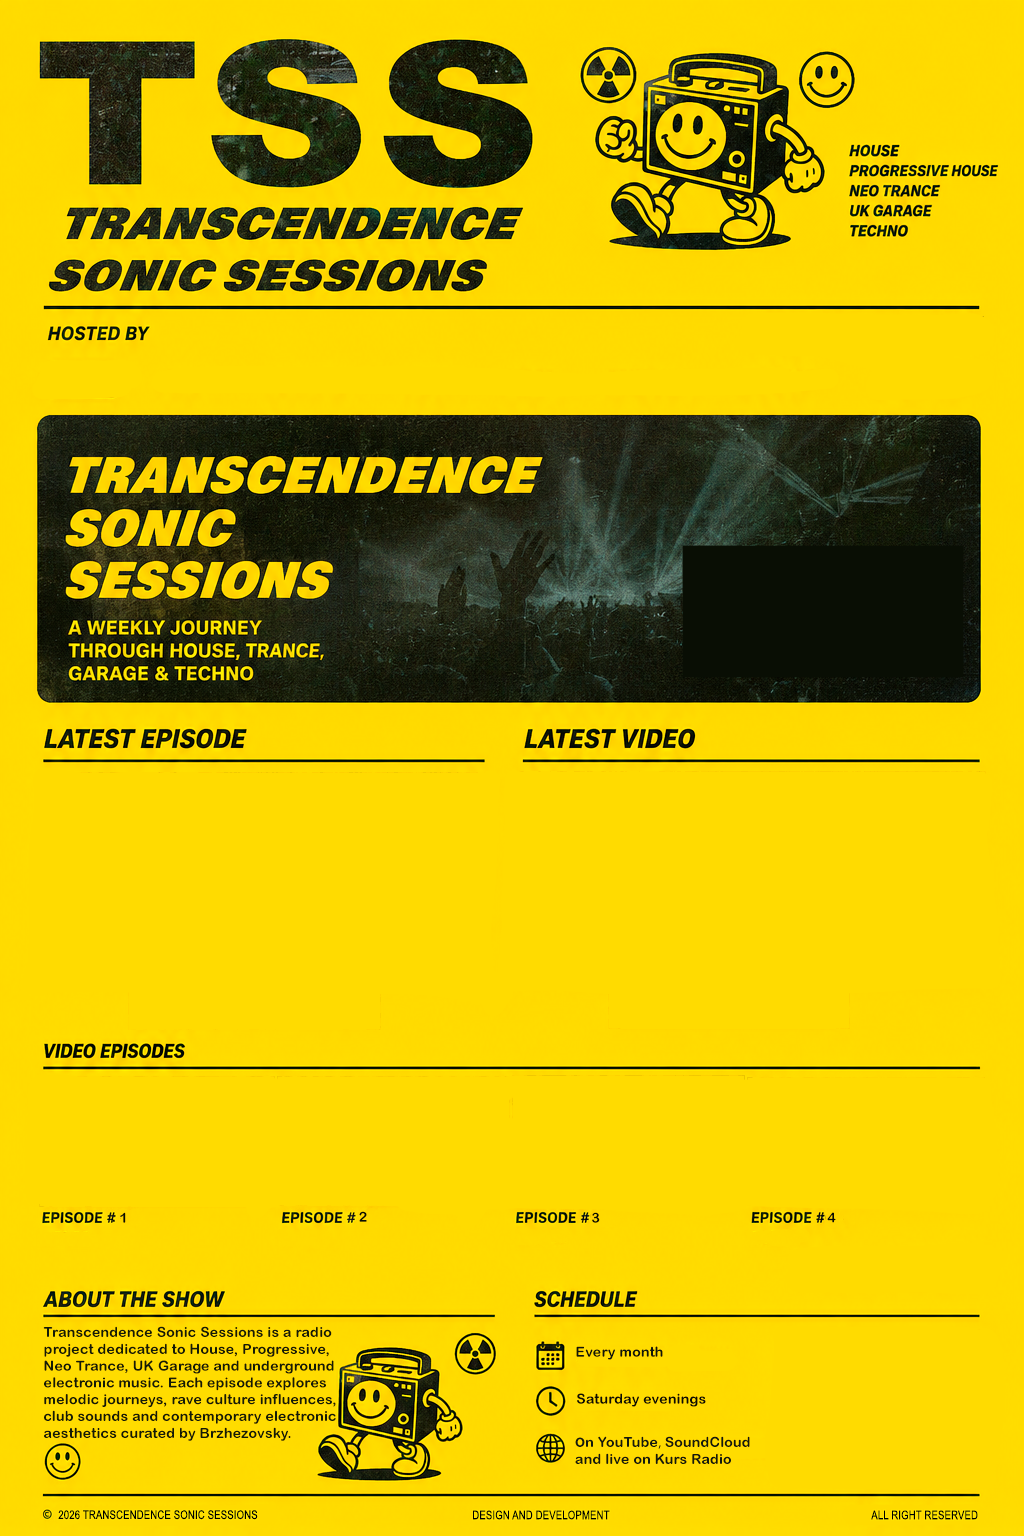
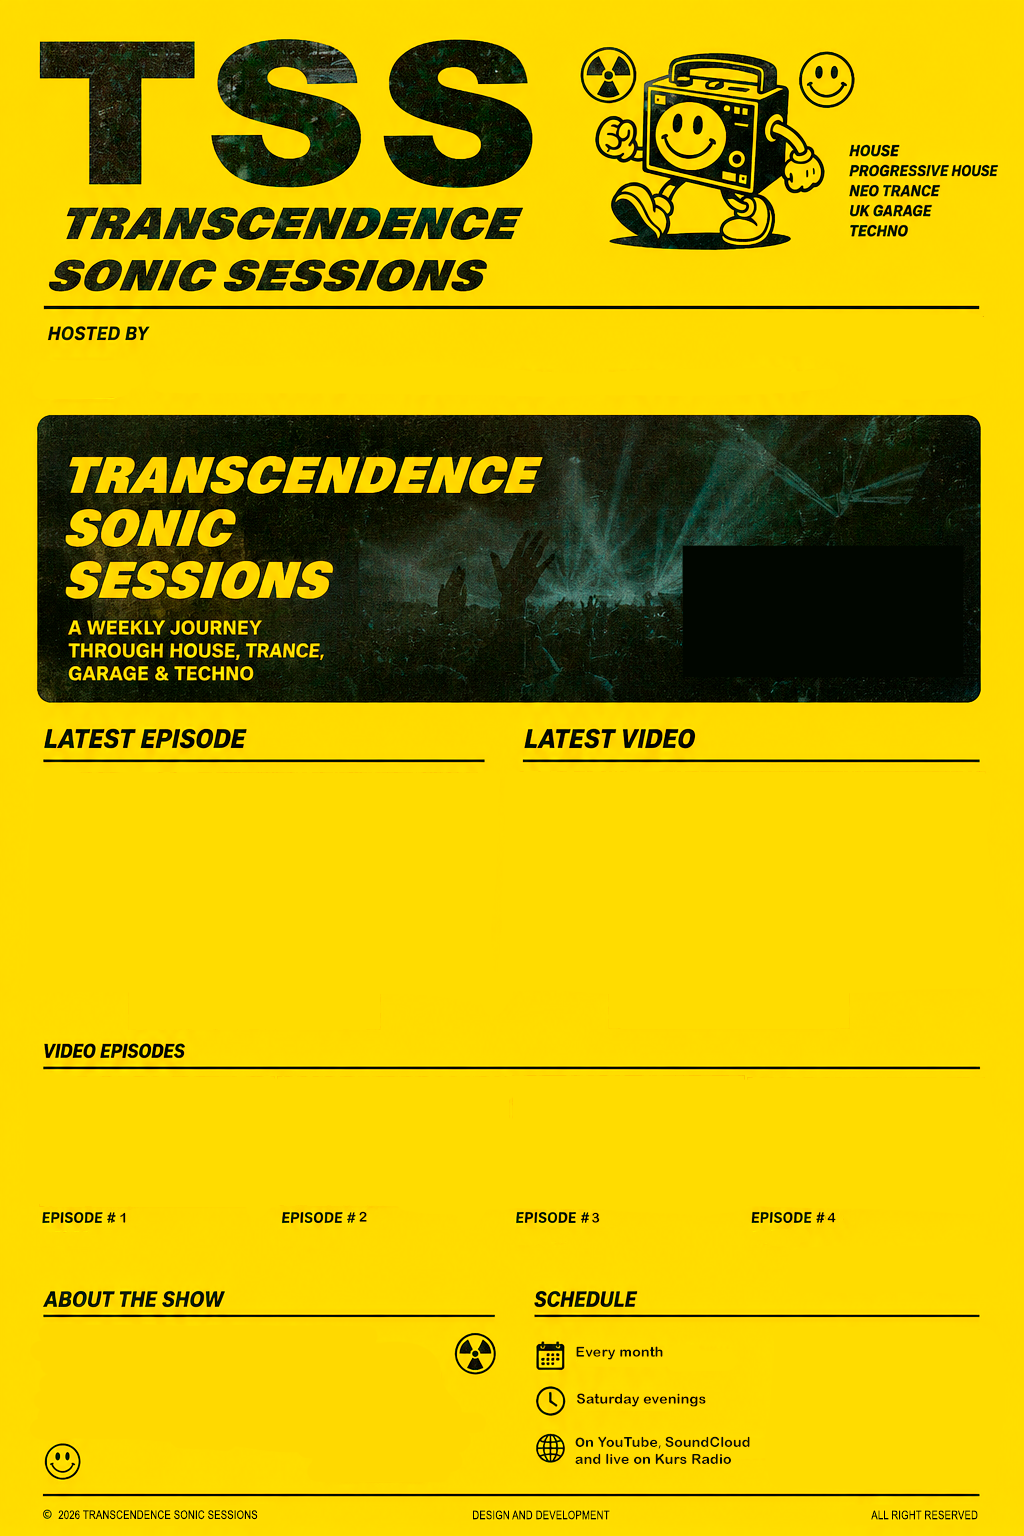
Improve SEO content layout

Changed region(s): [[0.0312, 0.8438, 0.4688, 0.9688], [0.6562, 0.3125, 0.7188, 0.3438], [0.625, 0.3438, 0.6562, 0.375]]

diff --git a/index.html b/index.html
@@ -31,13 +31,26 @@ body{background:#000;font-family:Arial,Helvetica,sans-serif;}
 .site{position:relative;max-width:1024px;margin:0 auto;}
 .background{display:block;width:100%;height:auto;}
 
-.seo-content{
+.about-overlay{
 position:absolute;
-left:-9999px;
-top:auto;
-width:1px;
-height:1px;
-overflow:hidden;
+left:4%;
+top:87.4%;
+width:34%;
+z-index:20;
+padding:clamp(1px,.39vw,4px) clamp(2px,.58vw,6px);
+color:#111;
+font-family:Arial,Helvetica,sans-serif;
+font-size:clamp(3px,1.03vw,10.5px);
+line-height:1.24;
+font-weight:600;
+}
+
+.about-overlay p{
+margin:0 0 clamp(2px,.4vw,4px);
+}
+
+.about-overlay p:last-child{
+margin-bottom:0;
 }
 
 .layer{
@@ -315,12 +328,11 @@ body{padding-bottom:42px;}
     <img src="assets/stay-tuned.png" class="layer stay-tuned" alt="Stay Tuned on Telegram">
   </a>
 
-</div>
+  <div class="about-overlay">
+    <p>Transcendence Sonic Sessions is a monthly radio show and podcast by Brzhezovsky on KURS Radio, focused on Progressive House, Neo Trance, UK Garage and underground electronic music.</p>
+    <p>Each episode draws on the spirit of underground club culture of the 1990s and 2000s.</p>
+  </div>
 
-<div class="seo-content">
-  <h1>Transcendence Sonic Sessions</h1>
-  <p>Transcendence Sonic Sessions is a monthly radio show by Brzhezovsky on KURS Radio featuring Progressive House, Neo Trance, UK Garage and modern underground electronic music.</p>
-  <p>The project explores contemporary electronic music inspired by the cultural code of underground club scenes from the 1990s and 2000s.</p>
 </div>
 
 <!-- AUDIO BAR -->
